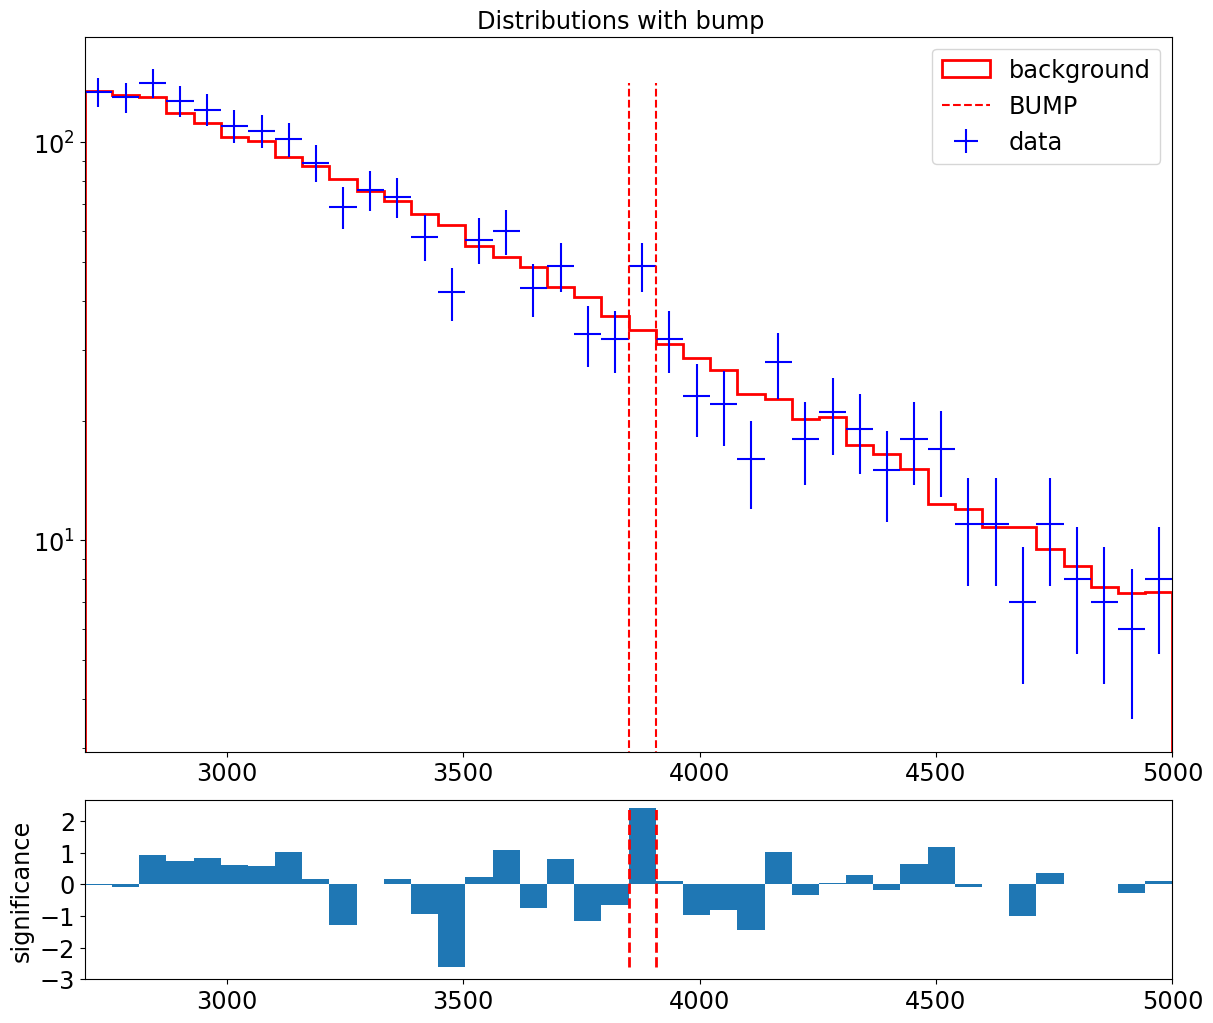
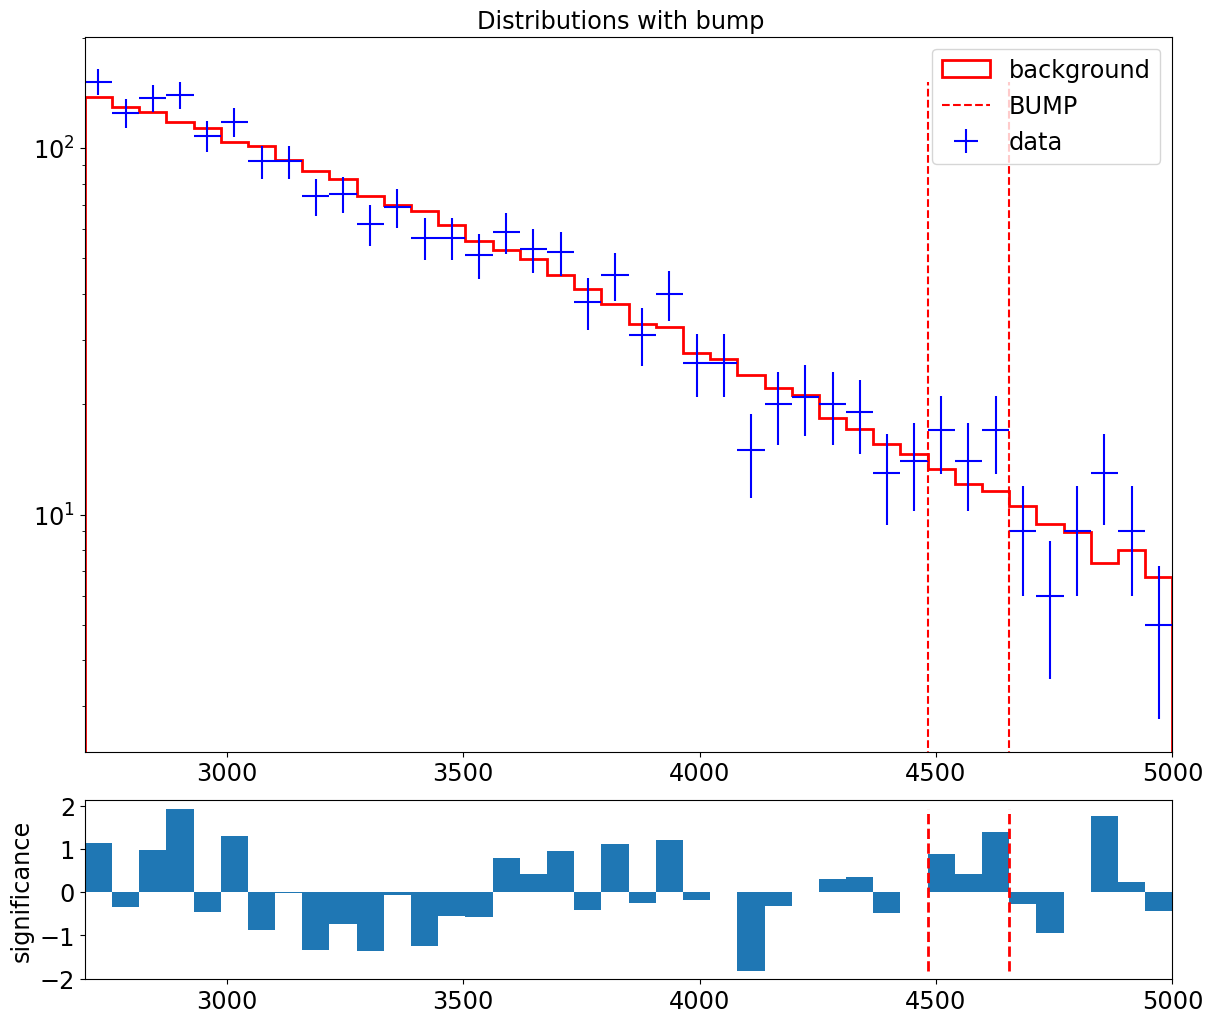
Applying BumpHunter with sig1 insertion and percentage 0.005

diff --git a/apply.py b/apply.py
@@ -119,7 +119,7 @@ with torch.no_grad(): # no need to compute gradients here
 loss_sample = pd.DataFrame(loss(data, prediction).numpy(), columns=selection).mean(axis=1)
 
 # Do the selection at Nth percentile
-percentile = 95
+percentile = 98
 cut = np.percentile(loss_sample, percentile)
 mjj_cut = mjj[loss_sample > cut]
 print(f'    post cut stat : {mjj_cut.size}')
@@ -138,8 +138,8 @@ print(f'    new S/B : {100 * sbr:.2f}%')
 
 BH = BumpHunter1D(
     rang=scope,
-    width_min = 3,
-    width_max = 8,
+    width_min = 2,
+    width_max = 6,
     width_step = 1,
     scan_step = 1,
     npe = 40000,
